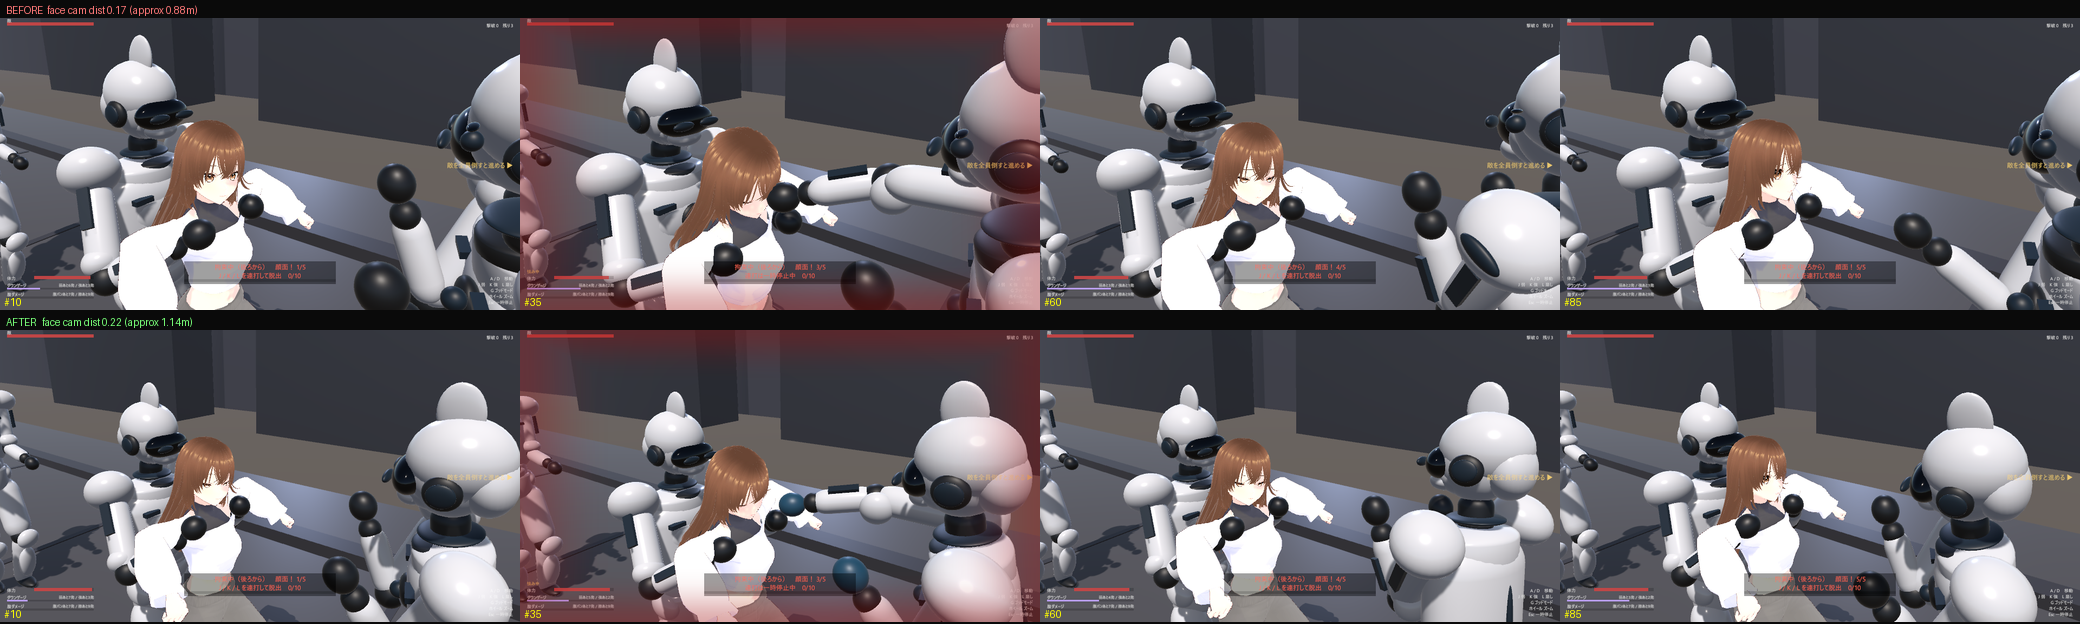
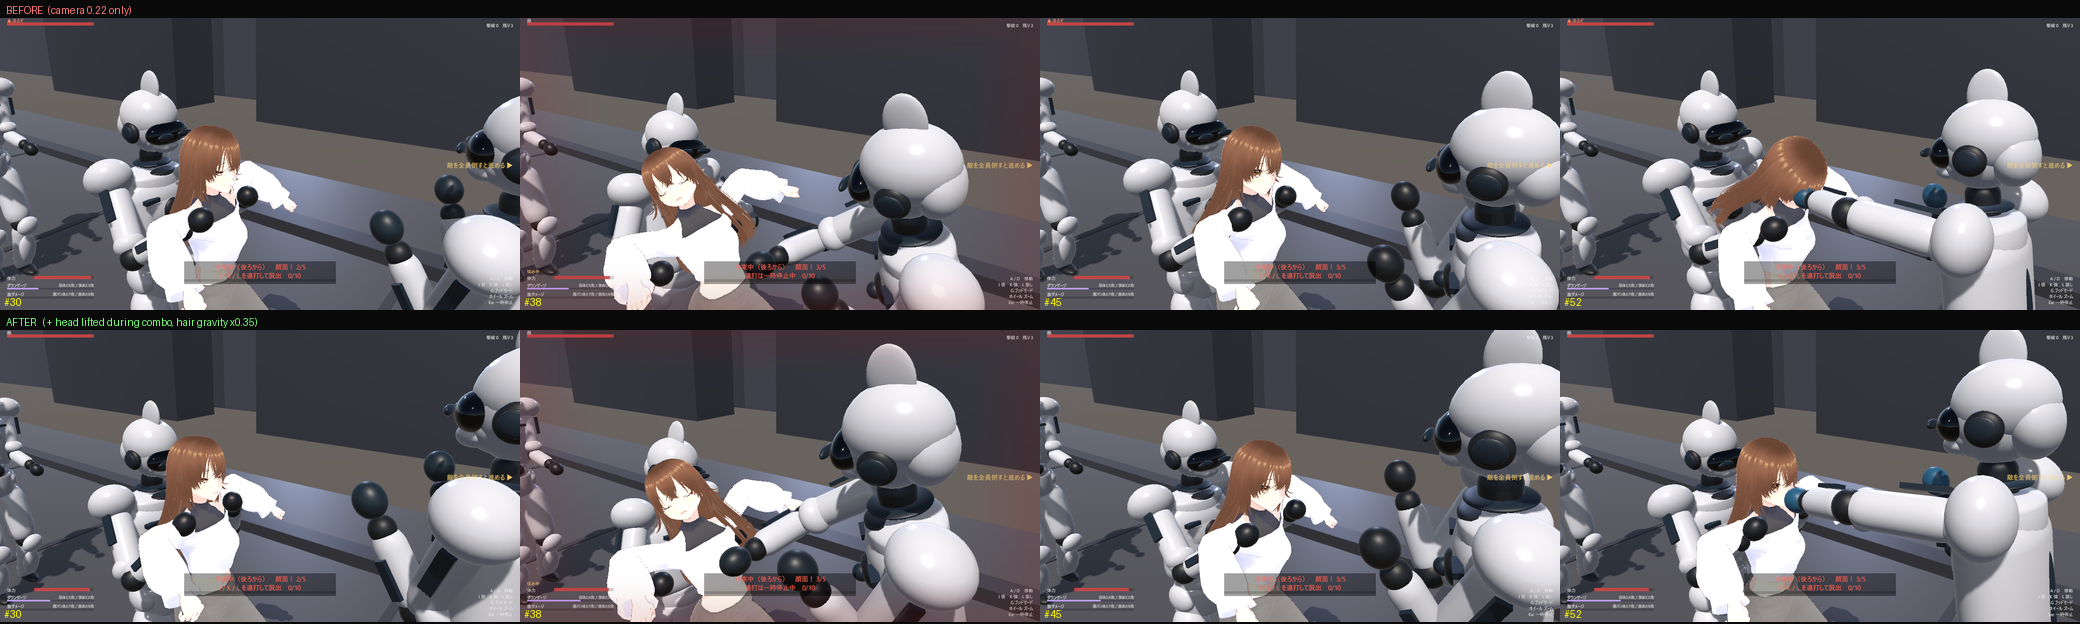
feat: 顔面パンのコンボ中は顔を上げて髪を退かせ、表情を読めるようにする
カメラは 4 通り（pitch 4/-8 × pivot 0.58/0.44）撮り比べたが、どれも
「打撃の瞬間に顔が髪で隠れる」ままで、カメラはレバーではなかった。
隠れている顔は画角では出てこないため、顔そのものを見せる方向へ変える。

- PoseGrabbed: 顔面パンのコンボ中は頭を上げたままにする（_faceComboLift、0.20 秒で遷移）
- VrmHairSpring: 同じ間だけ髪の重力を 0.35 倍（FaceComboGravity）にして前髪を退かせる

HeldBellyPunchTests 32 件通過。

diff --git a/MioPrototype/Assets/RyonaGame/Runtime/VrmHairSpring.cs b/MioPrototype/Assets/RyonaGame/Runtime/VrmHairSpring.cs
@@ -17,8 +17,13 @@ namespace Ryona.Game
         [Tooltip("倒れている間の重力の割合。0 で無重力（立ち姿勢の髪のまま）")]
         public float DownGravity = 0.1f;
 
+        [Range(0f, 1f)]
+        [Tooltip("顔面パンのコンボ中の重力の割合。前髪が落ちて顔を覆うのを防ぐ")]
+        public float FaceComboGravity = 0.35f;
+
         Vrm10Instance _vrm;
         CharacterAnimator _anim;
+        HeldBellyPunchDirector _punch;
         VRM10SpringBoneJoint[] _joints;
         float[] _original;
 
@@ -42,7 +47,13 @@ namespace Ryona.Game
                 return;
 
             bool down = _anim != null && _anim.Current == CharacterAnimator.State.Down;
-            float want = down ? DownGravity : 1f;
+
+            // 顔面パンのコンボ中は、前髪が落ちて顔を覆うのを避けるため重力を弱める。
+            if (_punch == null)
+                _punch = FindFirstObjectByType<HeldBellyPunchDirector>();
+            bool faceCombo = _punch != null && _punch.isActiveAndEnabled && _punch.IsFaceCombo;
+
+            float want = faceCombo ? FaceComboGravity : down ? DownGravity : 1f;
 
             if (Mathf.Abs(want - _applied) < 0.01f)
                 return;

diff --git a/MioPrototype/Assets/RyonaGame/Runtime/Rig/CharacterAnimator.PoseGrabbed.cs b/MioPrototype/Assets/RyonaGame/Runtime/Rig/CharacterAnimator.PoseGrabbed.cs
@@ -399,6 +399,13 @@ namespace Ryona.Game
                     pose.HeadYaw = Mathf.Atan2(toPuncher.x, toPuncher.z) * Mathf.Rad2Deg;
                 }
 
+                // 顔パン中は顔を上げたままにする。うつむくと前髪が落ちて表情が読めなくなる
+                // （プレビューで確認）。被弾の一瞬だけでなく、コンボの間ずっと保つ。
+                float faceComboTarget = _punchDirector != null && _punchDirector.IsFaceCombo ? 1f : 0f;
+                _faceComboLift = Mathf.MoveTowards(_faceComboLift, faceComboTarget, Time.deltaTime / 0.20f);
+                if (_faceComboLift > 0f)
+                    pose.HeadPitch = Mathf.Lerp(pose.HeadPitch, Mathf.Min(pose.HeadPitch, -8f), _faceComboLift);
+
                 return pose;
             }
 

diff --git a/MioPrototype/Assets/RyonaGame/Runtime/Rig/CharacterAnimator.HeldPunch.cs b/MioPrototype/Assets/RyonaGame/Runtime/Rig/CharacterAnimator.HeldPunch.cs
@@ -133,6 +133,12 @@ namespace Ryona.Game
                 ? _heldBellyPunchTotal - _heldBellyPunchRemaining
                 : 0f;
 
+        /// <summary>
+        /// 顔面パンのコンボ中に顔を上げておく度合い（0..1）。うつむいたままだと
+        /// 前髪が落ちて表情が読めないため、コンボの間だけ顎を上げる。
+        /// </summary>
+        float _faceComboLift;
+
         /// <summary>倒れている（立ち上がり中を含む）。移動できない区間。</summary>
         public bool IsDowned => _state == State.Down || _state == State.GetUp;
 

diff --git a/Motion-Notes.md b/Motion-Notes.md
@@ -666,8 +666,15 @@
     「頭が振れていない（37°）」で落ちた。**40° 以上の振れが「顔パンが入った」画を作っている**。
 - **採用**: `FaceCameraDistanceScale` 0.17 → **0.22**（約 0.88 → 1.14m）。
   打つ側の体・拳が画に入り、彼女の顔も残る。テストの「顔パンは 0.34 未満まで寄る」は満たす。
-- **未解決**: 首を大きく振る回で**髪が顔を覆う**（#85）。振れ幅は 40° 以上が必要なので、
-  髪（`VrmHairSpring` / `VrmHairWallClamp`）側か照明で対処する必要がある。
+- **採用（追記）**: カメラだけでは変わらなかったため、**顔そのものを見せる**方向へ変えた。
+  - `PoseGrabbed`: 顔面パンのコンボ中（`IsFaceCombo`）は **頭を上げたまま**にする
+    （`_faceComboLift` で 0.20 秒かけて遷移。うつむくと前髪が落ちて表情が消える）。
+  - `VrmHairSpring`: 同じ間だけ**髪の重力を 0.35 倍**（`FaceComboGravity`）。前髪が顔に落ちない。
+  - 判断の根拠: カメラを 4 通り（pitch 4 / -8 × pivot 0.58 / 0.44）撮り比べても
+    どの案も「顔が髪で隠れる」ままで、**カメラはレバーではなかった**
+    （[face-punch-camera-sweep.png](docs/verification/face-punch-camera-sweep.png)）。
+- **未解決**: 首を大きく振る回で、まだ髪が横顔に掛かる。振れ幅は 40° 以上が必要なので、
+  これ以上の改善は髪の毛束単位の制御（コライダー/毛束の固定）になる。
 - **検証**: `HeldBellyPunchTests` 32 件通過。
   確認映像: [face-punch-after.gif](docs/verification/face-punch-after.gif) /
   [face-punch-before-after.png](docs/verification/face-punch-before-after.png)。
